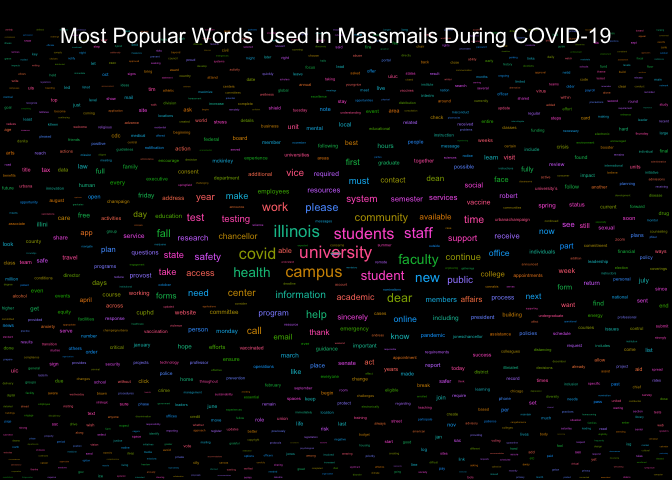
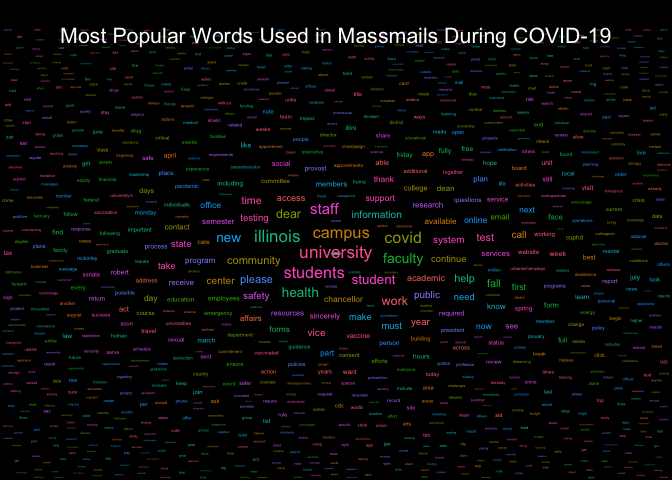
Re-build README.Rmd and Graphs

Changed region(s): [[0.0, 0.0625, 1.0, 1.0]]

diff --git a/README.md b/README.md
@@ -17,7 +17,7 @@ The archive may be viewed here:
 
 <https://massmail.illinois.edu/massmailArchive>
 
-Data has **775** observations and **7** variables:
+Data has **777** observations and **7** variables:
 
 - `datetime`: Date and time when the email was sent in the form of
   `YYYY-MM-DD HMS` with either CDT or CST.
@@ -210,16 +210,16 @@ head(most_popular_words, 10) %>%
 
 | word        | freq |
 |:------------|-----:|
-| university  | 2262 |
-| students    | 1872 |
-| campus      | 1675 |
-| illinois    | 1505 |
-| student     | 1114 |
-| faculty     | 1077 |
+| university  | 2268 |
+| students    | 1878 |
+| campus      | 1678 |
+| illinois    | 1511 |
+| student     | 1116 |
+| faculty     | 1080 |
 | covid       | 1070 |
-| community   | 1024 |
+| community   | 1026 |
 | health      | 1008 |
-| information |  938 |
+| information |  943 |
 
 #### Wordcloud
 
